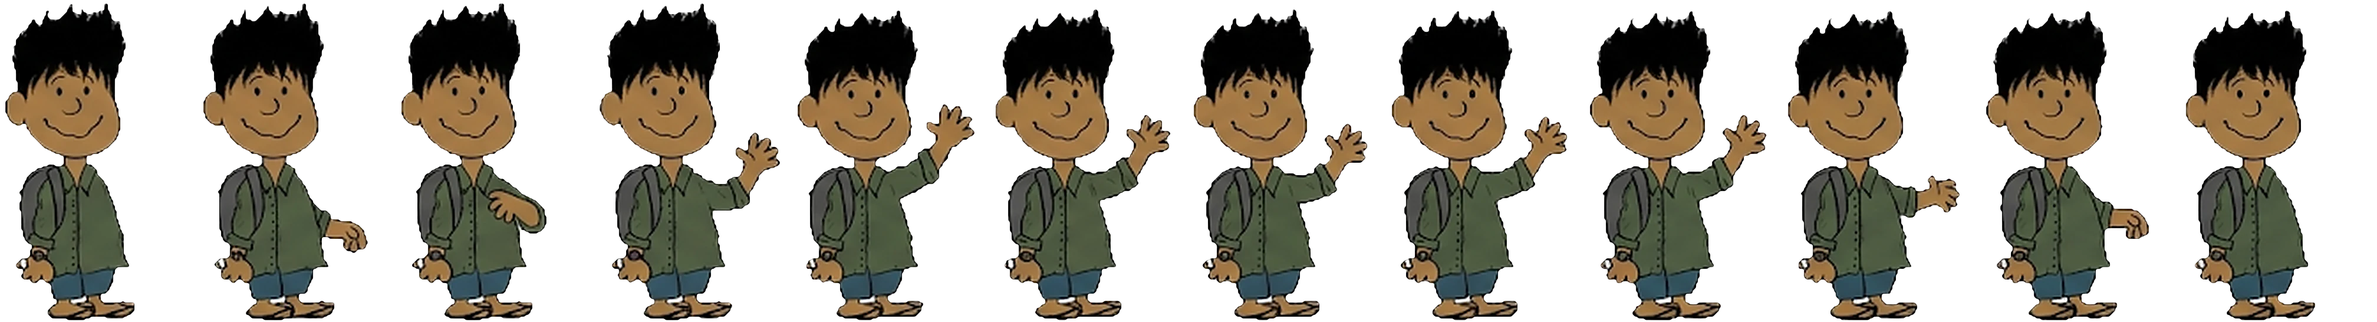
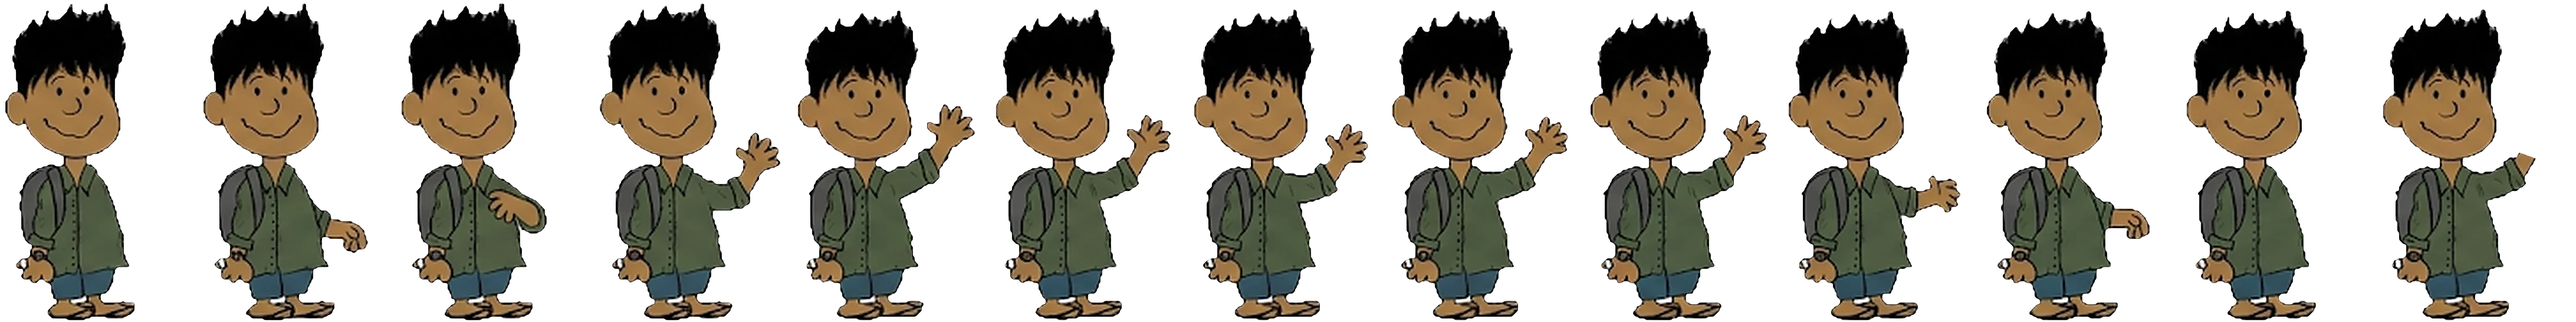
Story page: real hand-wave animation, single font
Claude-Session: https://claude.ai/code/session_01UzRC6br6WhDbqmoeEU8ssC

diff --git a/land/story.html b/land/story.html
@@ -2,18 +2,20 @@
 <meta name="description" content="Anjal B is a designer-researcher telling experimental stories through installation, interactive media, sound and research.">
 <style>
 @font-face{font-family:Fraunces;src:url(fonts/fraunces-latin-wght-normal.woff2) format("woff2");font-weight:100 900;font-style:normal;font-display:swap}
-@font-face{font-family:Fraunces;src:url(fonts/fraunces-latin-wght-italic.woff2) format("woff2");font-weight:100 900;font-style:italic;font-display:swap}
 *{box-sizing:border-box;margin:0}
 html{scroll-behavior:smooth}
 :root{--u:clamp(70px,min(16vw,21.5vh),250px);--serif:Fraunces,Georgia,serif}
-body{background:#f4f3ef;color:#141412;font-family:"Helvetica Neue",Arial,sans-serif}
+body{background:#f4f3ef;color:#141412;font-family:var(--serif)}
 .top{position:absolute;left:0;right:0;top:0;display:flex;justify-content:space-between;padding:22px 32px;font-size:13px;z-index:2}
 .top a{color:#6b6a63;text-decoration:none;margin-left:22px}.top a:hover{color:#141412}.top a:first-child{margin-left:0}
 .hero{min-height:100vh;display:flex;flex-direction:column;justify-content:center;padding:72px 32px 32px}
 .greet{display:flex;align-items:flex-end;gap:calc(var(--u)*.08);line-height:1}
-.hi{font:italic 600 calc(var(--u)*.7)/.78 var(--serif);color:#e2461b;letter-spacing:-.04em;padding-bottom:calc(var(--u)*.06)}
-.me{height:calc(var(--u)*1.3);width:calc(var(--u)*1.3*112/182);flex:none;background:url(anjal-wave.webp) 0 0/1200% 100% no-repeat}
-.iam{font:italic 400 calc(var(--u)*.2)/1 var(--serif);color:#6b6a63;margin:calc(var(--u)*.1) 0 0 .08em}
+.hi{font:500 calc(var(--u)*.7)/.78 var(--serif);color:#e2461b;letter-spacing:-.04em;padding-bottom:calc(var(--u)*.06)}
+.me{height:calc(var(--u)*1.3);width:calc(var(--u)*1.3*112/182);flex:none;background:url(anjal-wave.webp) 0 0/1300% 100% no-repeat;position:relative}
+.hand{position:absolute;inset:0;background:url(anjal-hand.webp) 0 0/100% 100% no-repeat;transform-origin:74.4% 48%;display:none}
+.hand.on{display:block;animation:wv .4s ease-in-out 4}
+@keyframes wv{0%,100%{transform:rotate(0)}25%{transform:rotate(-22deg)}75%{transform:rotate(22deg)}}
+.iam{font:400 calc(var(--u)*.2)/1 var(--serif);color:#6b6a63;margin:calc(var(--u)*.1) 0 0 .08em}
 .name{font:500 var(--u)/.88 var(--serif);letter-spacing:-.045em;margin:.02em 0 .14em -.05em;white-space:nowrap}
 .about{font-size:clamp(15px,1.3vw,19px);line-height:1.5;color:#4a4943;max-width:36em;margin:0 0 clamp(14px,2.4vh,24px)}
 h1{font:400 clamp(20px,2.4vw,36px)/1.22 var(--serif);letter-spacing:-.02em;max-width:30em}
@@ -34,7 +36,7 @@ footer{padding:0 32px 28px;font-size:12px;color:#6b6a63;display:flex;justify-con
 </style></head>
 <div class="top"><a href="#work">Work</a><div><a href="mailto:anjal2098@gmail.com">Contact</a><a href="../resume/">Resume</a></div></div>
 <section class="hero">
-<div class="greet"><div class="hi" aria-hidden="true">Hi!</div><div class="me" id="me" role="img" aria-label="Illustration of Anjal waving hello"></div></div>
+<div class="greet"><div class="hi" aria-hidden="true">Hi!</div><div class="me" id="me" role="img" aria-label="Illustration of Anjal waving hello"><div class="hand" id="hand"></div></div></div>
 <div class="iam">I am</div>
 <div class="name">Anjal B</div>
 <p class="about">Designer-researcher and Assistant Professor in Trivandrum. Trained in architecture and new media design, I work across installation, interactive media, sound and research.</p>
@@ -53,8 +55,18 @@ requestAnimationFrame(function(){setTimeout(function(){r.classList.add('in')},35
 document.getElementById('list').innerHTML=PROJ.map(function(q){return '<a href="'+(q.u||'#')+'"'+(q.u?'':' class="soon"')+'><i style="font-style:normal;font-size:13px;color:#6b6a63">'+q.n+'</i><b>'+q.t+'</b><span>'+q.k+(q.u?'':' - coming soon')+'</span></a>'}).join('');
 
 var me=document.getElementById('me'),rm=matchMedia('(prefers-reduced-motion: reduce)').matches;
-function fr(i){me.style.backgroundPositionX=(i/11*100)+'%'}
-var seq=[[0,1200],[1,100],[2,100],[3,100],[4,110],[5,110],[6,110],[7,110],[4,110],[5,110],[6,110],[7,110],[8,110],[9,110],[10,110],[11,900]],k=0;
+var hand=document.getElementById('hand');
+function fr(i){me.style.backgroundPositionX=(i/12*100)+'%'}
 fr(0);
-if(!rm){(function step(){var s=seq[k];fr(s[0]);k=(k+1)%seq.length;setTimeout(step,s[1])})()}
+function wait(ms){return new Promise(function(r){setTimeout(r,ms)})}
+async function play(){
+ for(;;){
+  hand.classList.remove('on');fr(0);await wait(1300);
+  for(var i of [1,2,3,4]){fr(i);await wait(110)}
+  fr(12);hand.classList.add('on');await wait(1650);
+  hand.classList.remove('on');
+  for(var j of [8,9,10,11]){fr(j);await wait(j===11?100:110)}
+ }
+}
+if(!rm){play()}
 </script></body></html>
